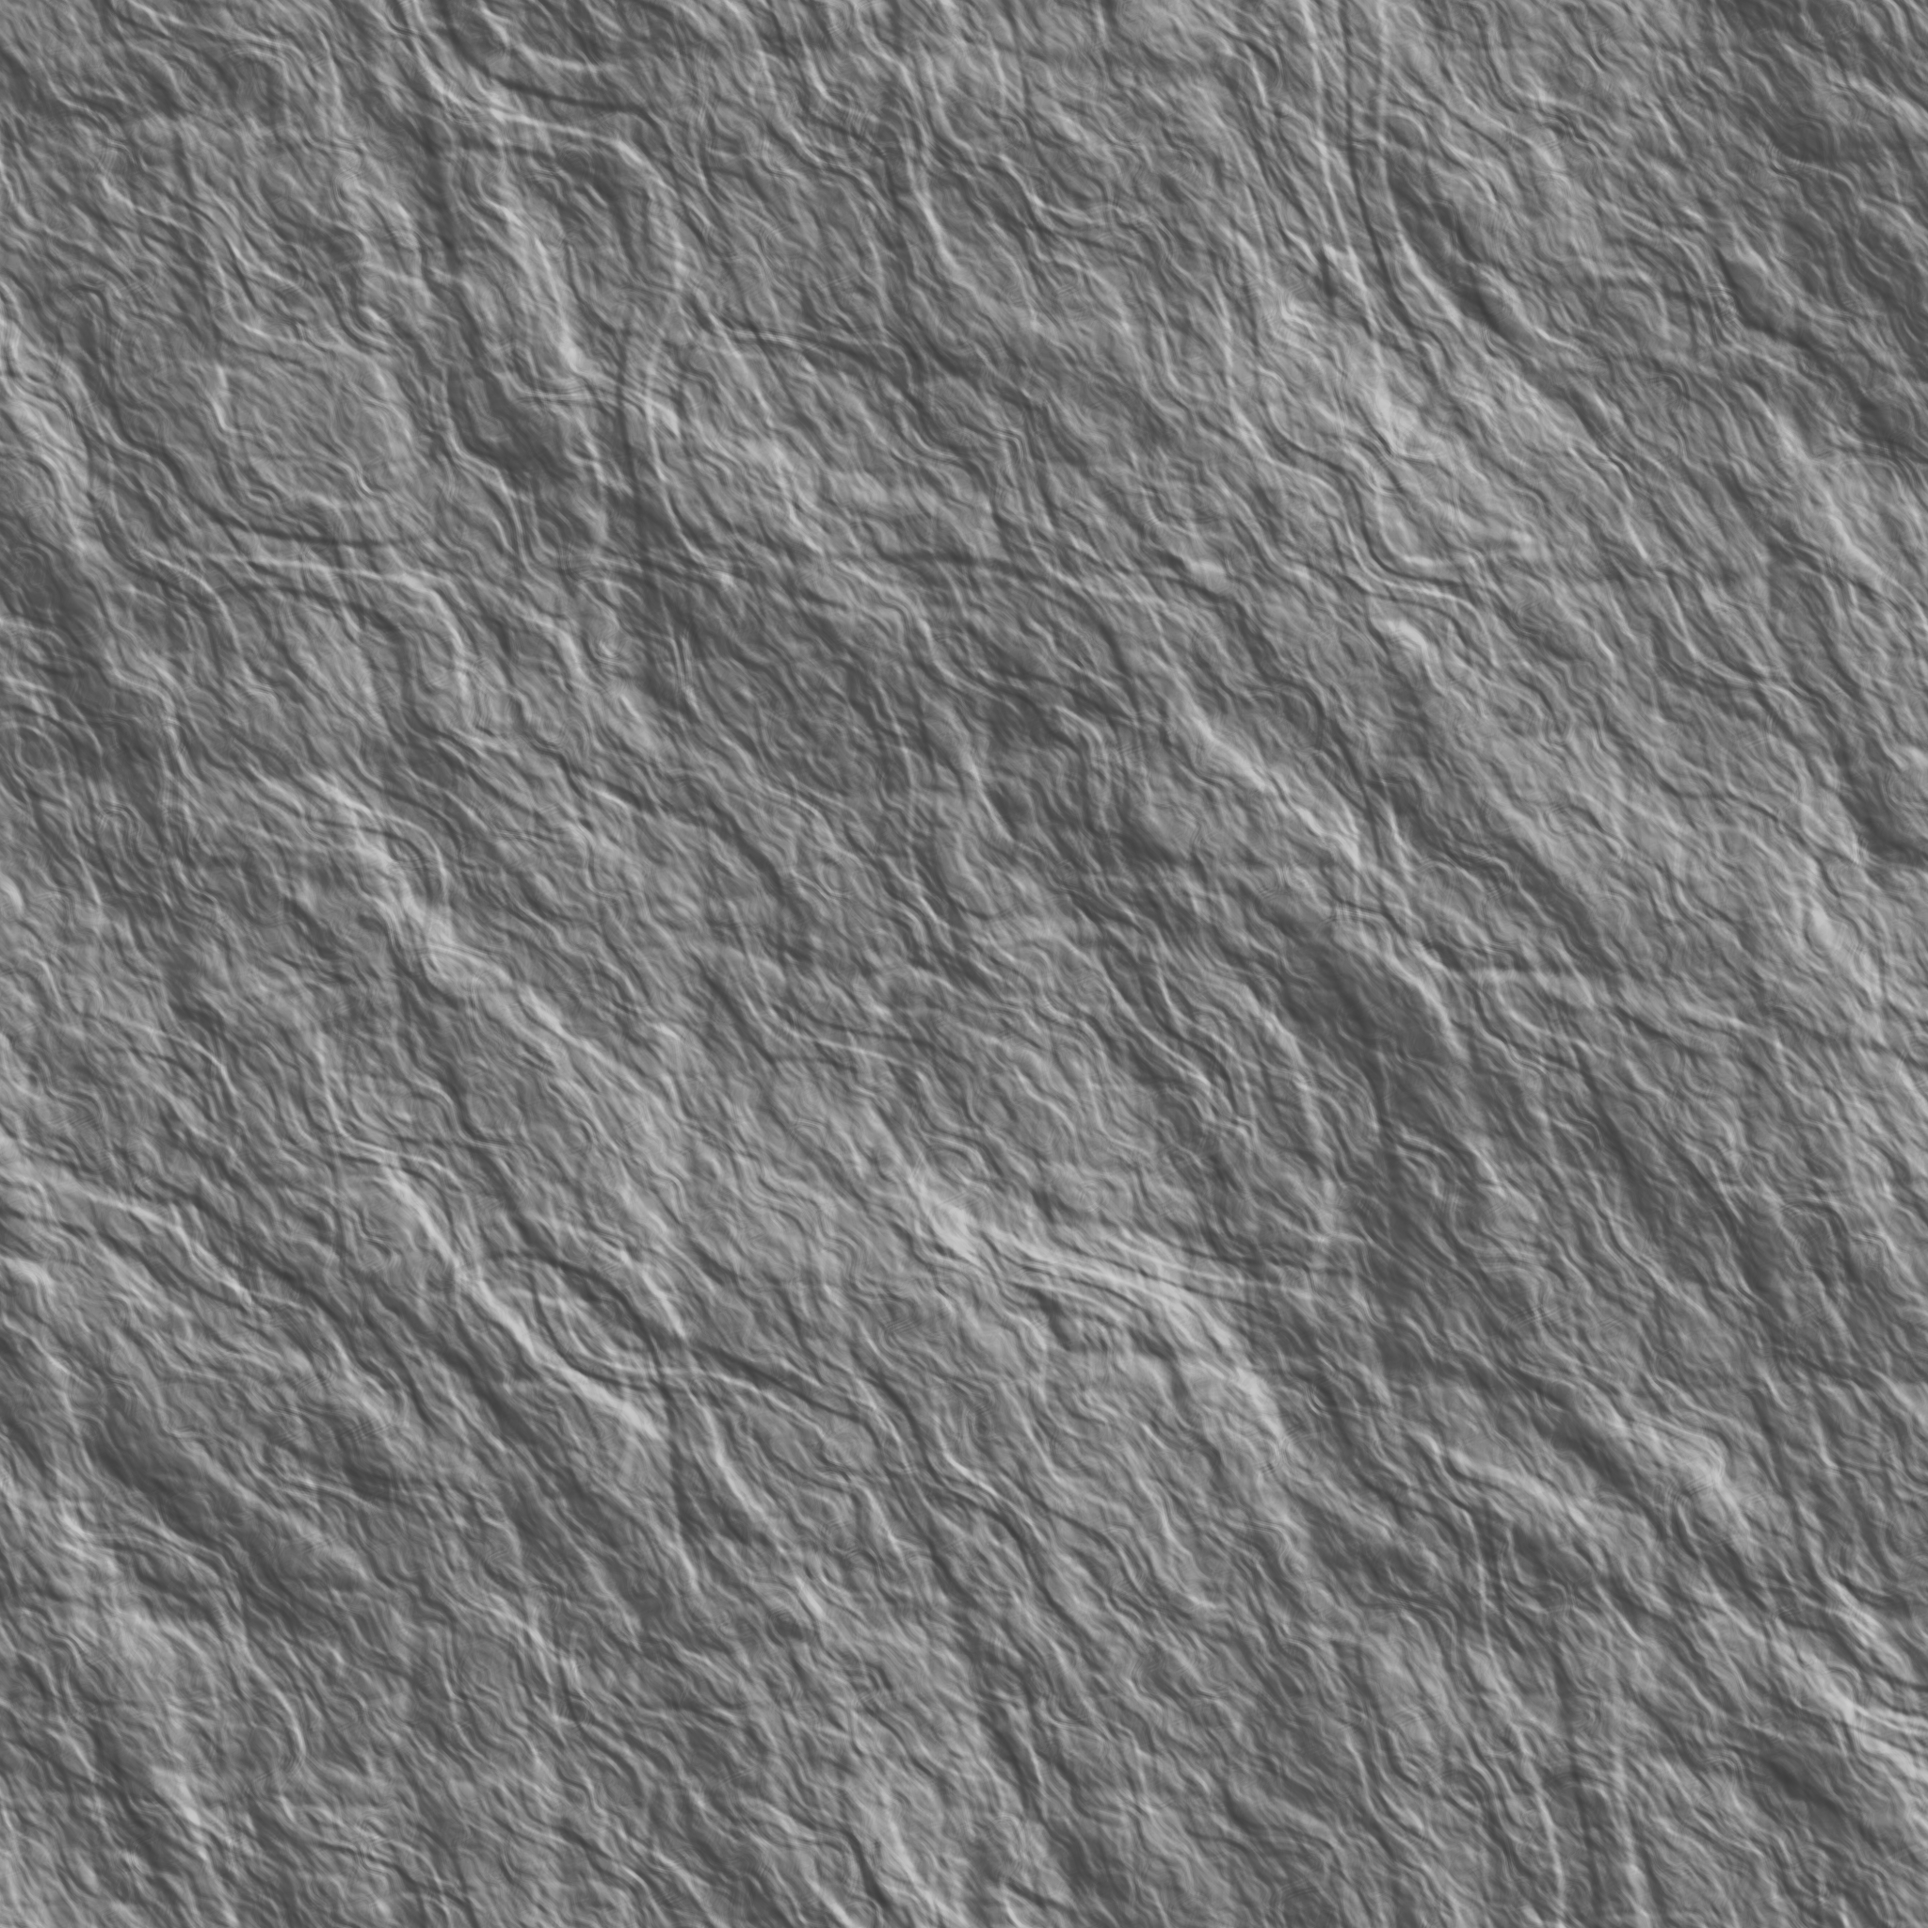
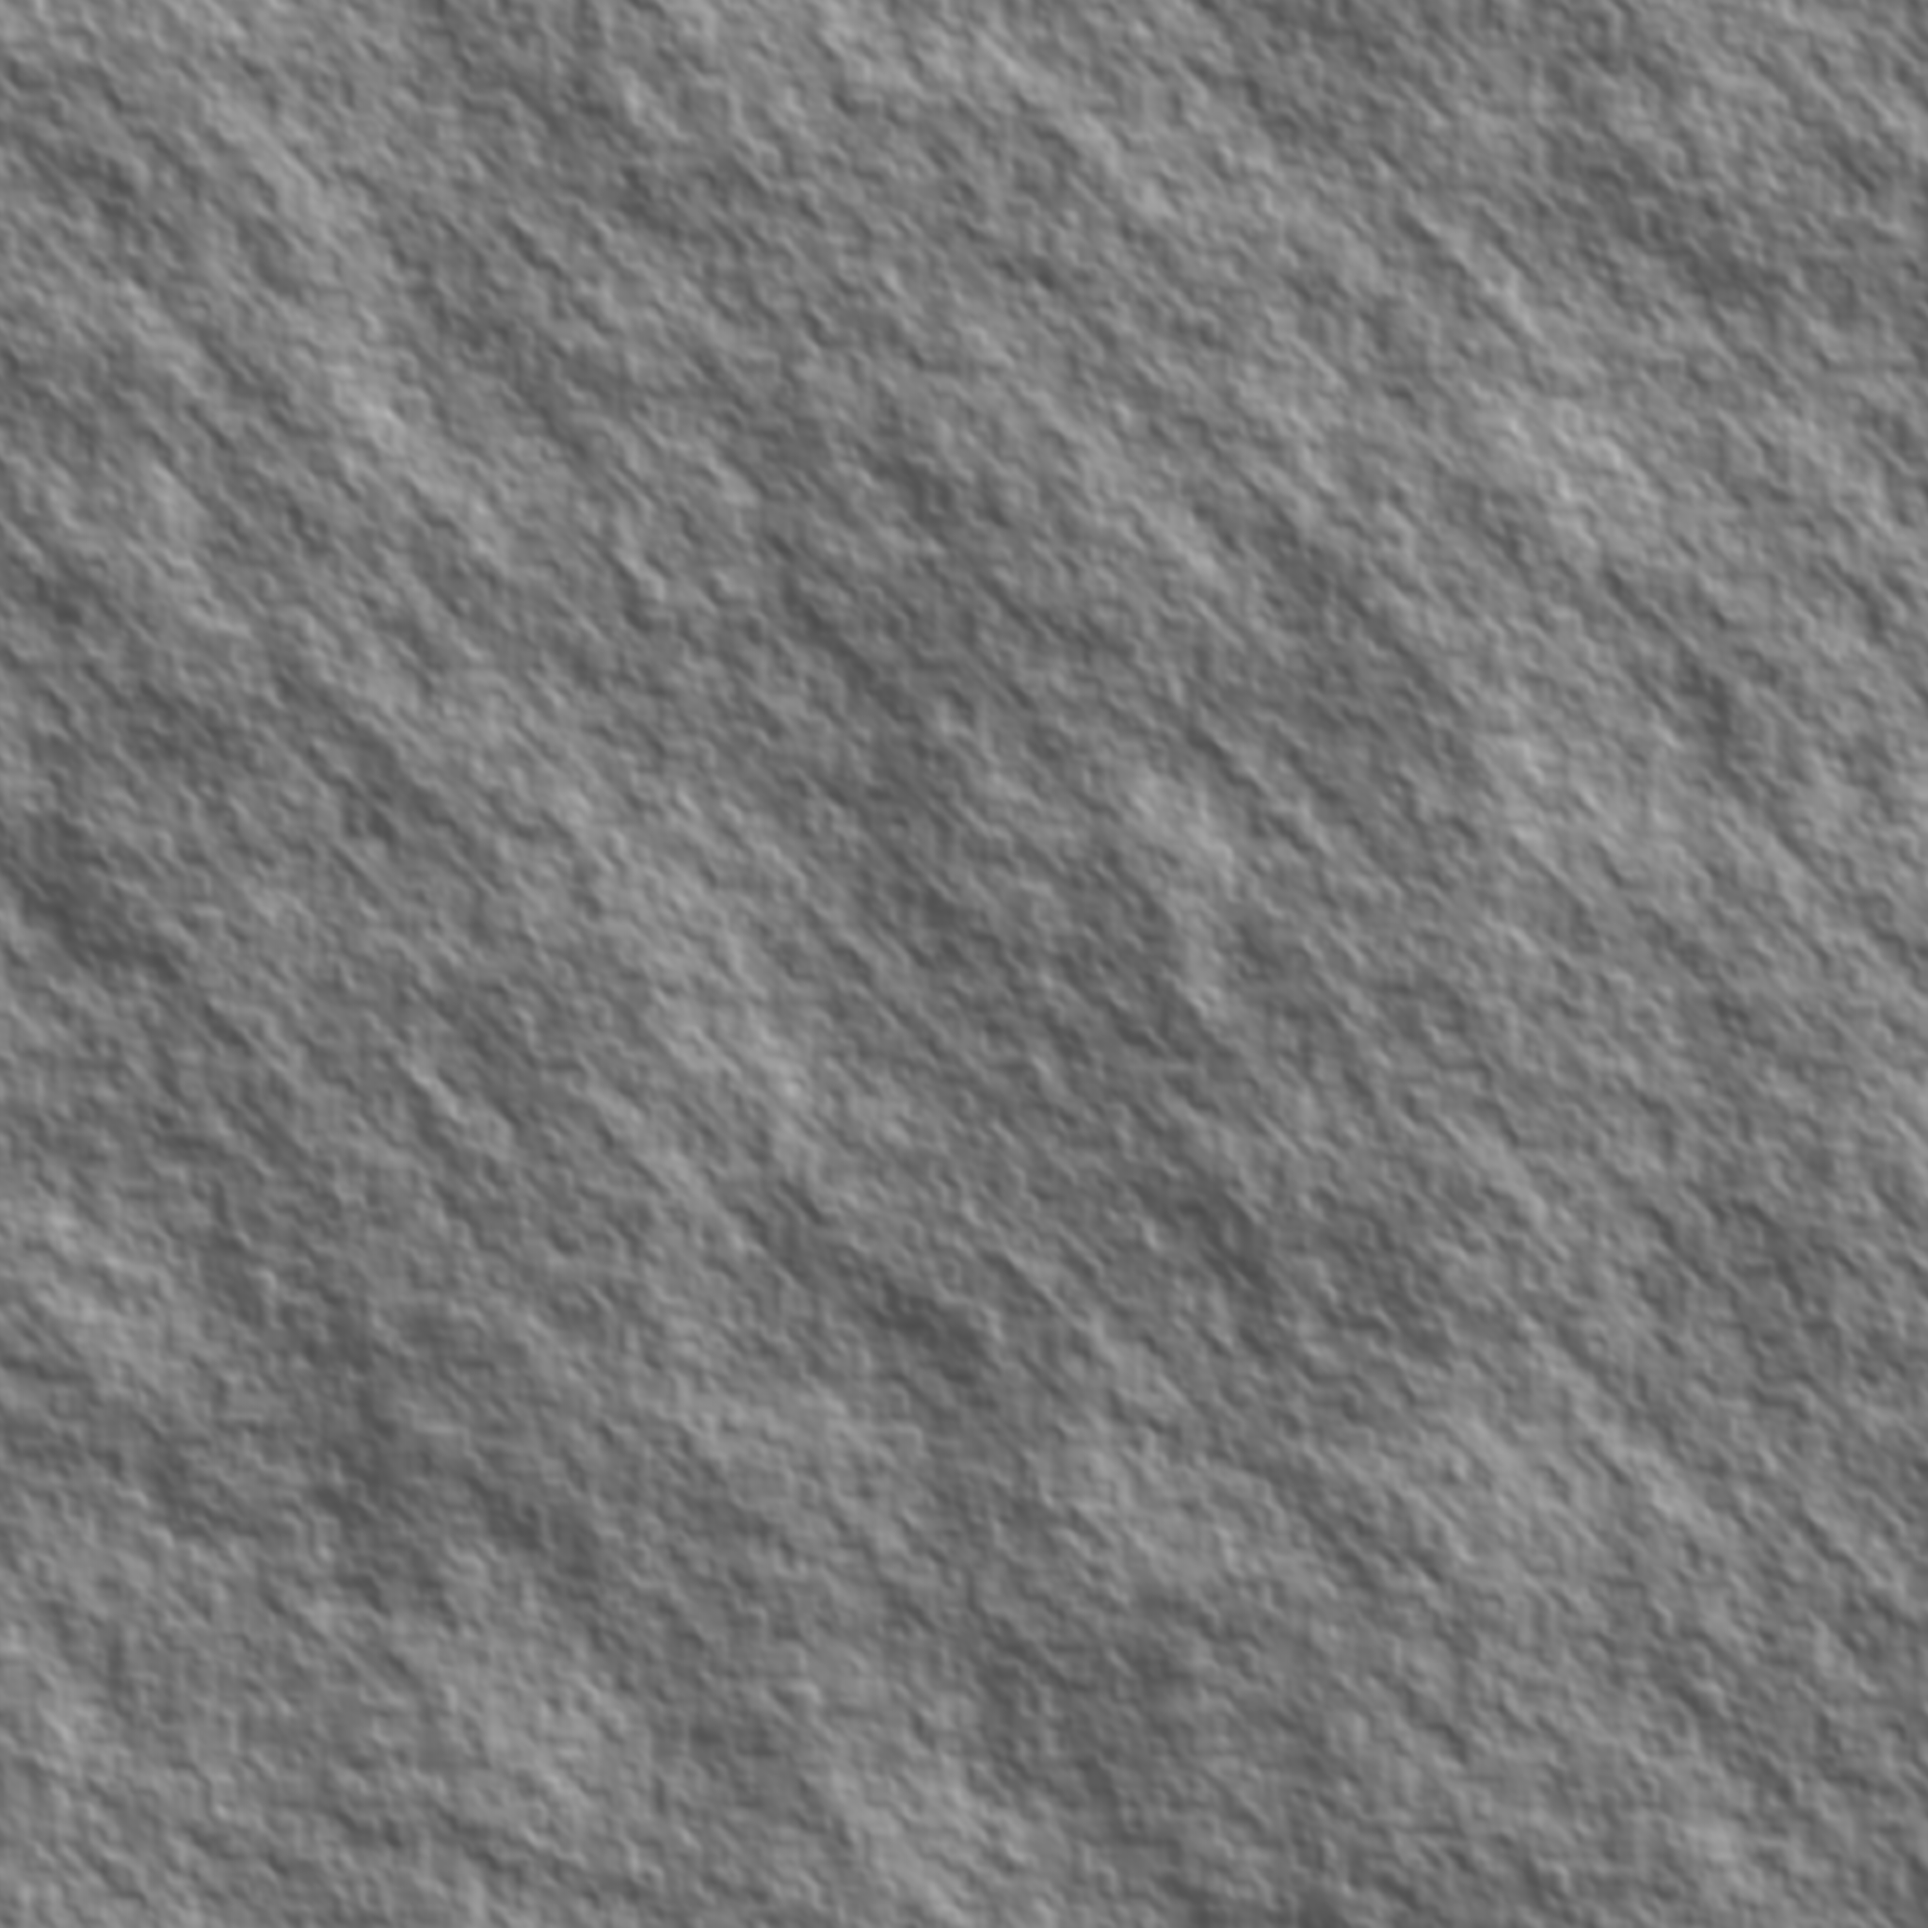
Sequence rings, channels, craters, ridges, crackle and hills across the final descent

diff --git a/tools/powers-of-ten/quantum-terrain.js b/tools/powers-of-ten/quantum-terrain.js
@@ -7,7 +7,7 @@ import {stepRGBLife} from './life-colour.js';
 import {buildLifeCatalog} from './life-catalog.js';
 const PLANCK=1.616255e-35,FIELD=1e-18;
 export function quantumTerrain(){
- const canvas=document.createElement('canvas'),gl=canvas.getContext('webgl2',{alpha:true,antialias:false});
+ const canvas=document.createElement('canvas'),gl=canvas.getContext('webgl2',{alpha:true,antialias:false,preserveDrawingBuffer:new URLSearchParams(location.search).has('bake')});
  let ready=false,program,texture;
  const finalImage=new Image();finalImage.src='/video/powers-of-ten/generated/lenia-terrain-v1/planck-relief.png';
  const image=document.createElement('canvas');image.width=image.height=1024;
@@ -33,21 +33,21 @@ export function quantumTerrain(){
  // depth. Their valleys therefore enlarge into the next landscape instead
  // of changing shape while we look at them.
  float band(float k,float a,float b){
-  float z=(k-(a+b)*.5)/((b-a)*.55),bell=exp(-.5*z*z);
+  float z=(k-(a+b)*.5)/((b-a)*.43),bell=exp(-.5*z*z);
   return bell*smoothstep(.015,.045,bell);
  }
  float landform(vec2 q,float k){
-  float base=noise(q),height=base*.28,totalWeight=.28;
-  // Reverse relief around 10^-23 m: identical paths, recessed strands.
-  float ditchBand=band(k,11.,22.);
-
-  float canyon=band(k,16.,25.),craters=band(k,17.,36.);
-  float folds=band(k,29.,38.),ridges=band(k,33.,42.);
-  float waves=band(k,-2.,9.),delta=band(k,5.,15.),badlands=band(k,10.,20.);
-  float faults=band(k,25.,34.),membranes=band(k,37.,46.),labyrinth=band(k,42.,51.);
+  // Roughly two-decade chapters with overlapping, quieter neighbours.
+  float hillWeight=.28+1.6*band(k,33.,51.);
+  float base=noise(q),height=base*hillWeight,totalWeight=hillWeight;
+  float waves=band(k,-12.,-3.),faults=band(k,-5.,4.);
+  float craters=band(k,2.,11.),canyon=band(k,10.,19.);
+  float folds=band(k,18.,27.),ridges=band(k,20.,29.);
+  float membranes=band(k,27.,36.),labyrinth=.25*band(k,23.,32.);
+  float delta=.25*band(k,9.,20.),badlands=.25*band(k,15.,26.);
   if(waves>0.){
-   vec2 w=q+vec2(sin(q.y*.7),cos(q.x*.8))*.18;
-   float ripples=sin(length(w-vec2(1.7,-2.1))*5.1)+sin(length(w+vec2(2.4,.9))*4.7)+sin(dot(w,vec2(3.3,2.6)));
+   vec2 w=q-(vec2(17.31,29.73)+vec2(k*13.57,k*7.13));
+   float ripples=1.8*sin(length(w)*4.4+.2*noise(q*.5))+sin(length(w-vec2(.8,-.6))*3.7);
    height+=(.5+ripples*.135)*(waves*.83);totalWeight+=waves*.83;
   }
   if(delta>0.||badlands>0.){
@@ -85,14 +85,14 @@ export function quantumTerrain(){
      crater+=(bowl+rim)*(1.-smoothstep(r*1.25,r*1.65,radius));
     }
    }
-   height+=(.5+crater+.12*(base-.5))*(craters*2.8);totalWeight+=craters*2.8;
+   height+=(.5+crater+.12*(base-.5))*(craters*1.35);totalWeight+=craters*1.35;
   }
   if(faults>0.){
-   float angle=hash(vec2(k,41.))*6.2831853;
+   float angle=1.15;
    float trace=dot(q,vec2(cos(angle),sin(angle)))*.65+.55*noise(q*.6);
    float wave=sin(trace*6.2831853),crack=exp(-pow(wave/.14,2.));
    float displaced=.5+.16*sin(trace*6.2831853+.6)-.28*crack;
-   height+=(displaced+.1*(base-.5))*(faults*.4);totalWeight+=faults*.4;
+   height+=(displaced+.1*(base-.5))*(faults*1.1);totalWeight+=faults*1.1;
   }
   if(membranes>0.){
    vec2 cell=floor(q),local=fract(q);float first=10.,second=10.;
@@ -102,7 +102,7 @@ export function quantumTerrain(){
     float d=length(site-local);if(d<first){second=first;first=d;}else second=min(second,d);
    }
    float wall=exp(-pow((second-first)/.07,2.));
-   height+=(.25+.5*wall+.14*base)*(membranes*.5);totalWeight+=membranes*.5;
+   height+=(.62-.50*wall+.10*base)*(membranes*1.1);totalWeight+=membranes*1.1;
   }
   if(labyrinth>0.){
    vec2 w=q+vec2(noise(q*.9+11.),noise(q*.9-7.))*1.5;
@@ -112,11 +112,11 @@ export function quantumTerrain(){
   }
   if(folds>0.){
   float folded=noise(q+vec2(sin(q.y*2.1),sin(q.x*1.4))*.65);
-  height+=(.5+.42*sin(folded*8.))*(folds*.38);totalWeight+=folds*.38;
+  height+=(.5+.42*sin(folded*8.))*(folds*.8);totalWeight+=folds*.8;
   }
   float ridge=1.-sqrt(pow(base*2.-1.,2.)+.003);
-  float result=(height+ridge*ridges*.42)/(totalWeight+ridges*.42);
-  return mix(result,1.-result,ditchBand);
+  float result=(height+ridge*ridges*.65)/(totalWeight+ridges*.65);
+  return result;
  }
  // Photoshop-style Color blend: retain relief luminance while adopting
  // the field hue/saturation, clipping back into the RGB gamut.
